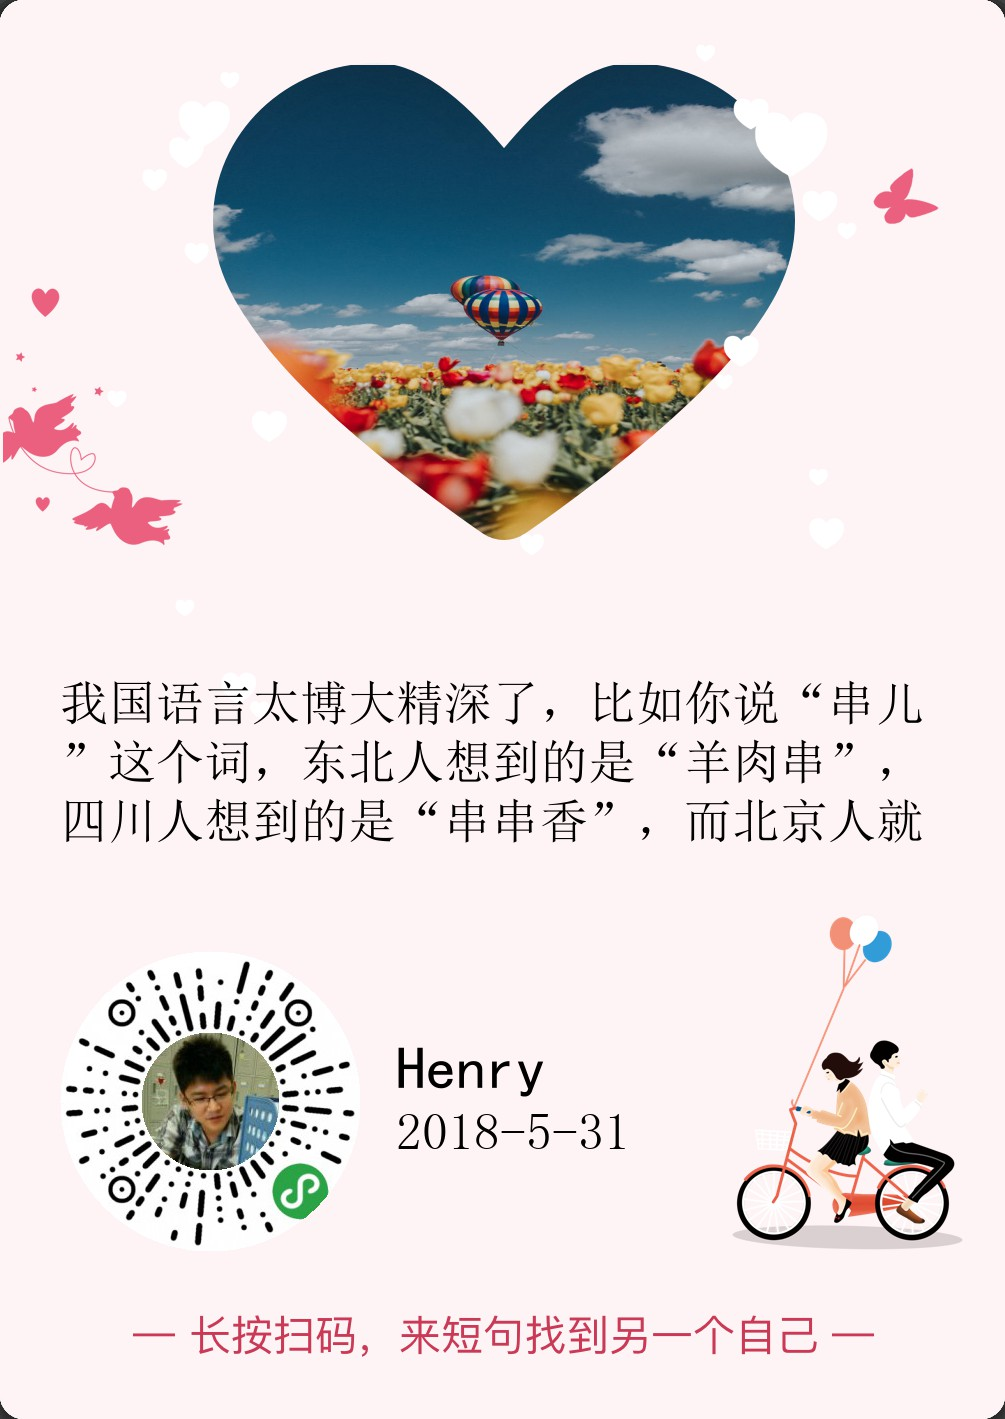
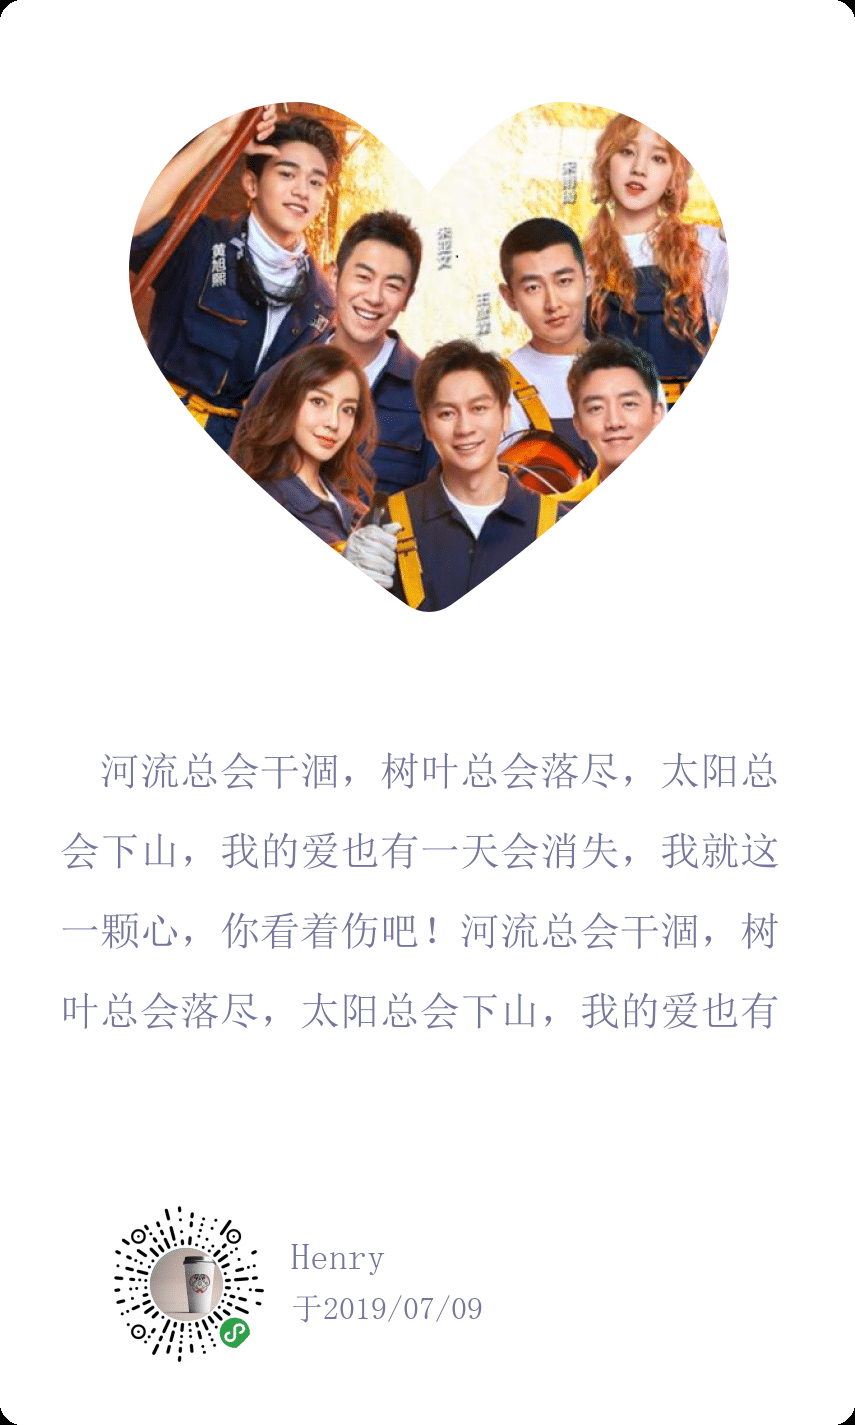
第三版海报改版

diff --git a/pages/poster1/poster1.js b/pages/poster1/poster1.js
@@ -1,0 +1,92 @@
+import loginApi from '../../utils/login.js'
+import util from '../../utils/util.js'
+const app = getApp();
+
+Page({
+
+    data: {
+        classArr:[
+            {
+                txt: "简约大气",
+                id: 1,
+            },
+            {
+                txt: "简约大气",
+                id: 1,
+            },
+            {
+                txt: "简约大气",
+                id: 1,
+            },
+            {
+                txt: "简约大气",
+                id: 1,
+            },
+            {
+                txt: "朴素",
+                id: 1,
+            },
+            {
+                txt: "清凉",
+                id: 1,
+            },
+        ],
+        classUrls:[
+            "https://duanju.58100.com/upload/yasuotu/01.png",
+            "https://duanju.58100.com/upload/yasuotu/02.png",
+            "https://duanju.58100.com/upload/yasuotu/03.png",
+            "https://duanju.58100.com/upload/yasuotu/04.png",
+            "https://duanju.58100.com/upload/yasuotu/05.png",
+            "https://duanju.58100.com/upload/yasuotu/06.png",
+            "https://duanju.58100.com/upload/yasuotu/07.png",
+            "https://duanju.58100.com/upload/yasuotu/08.png",
+            "https://duanju.58100.com/upload/yasuotu/09.png",
+            "https://duanju.58100.com/upload/yasuotu/10.png",
+            "https://duanju.58100.com/upload/yasuotu/11.png",
+            "https://duanju.58100.com/upload/yasuotu/12.png",
+            "https://duanju.58100.com/upload/yasuotu/13.png",
+            "https://duanju.58100.com/upload/yasuotu/14.png",
+            "https://duanju.58100.com/upload/yasuotu/15.png",
+            "https://duanju.58100.com/upload/yasuotu/16.png",
+        ]
+    },
+
+    onLoad: function (options) {
+        let imgW = ((app.windowHeight + app.Bheight) * 750 / app.sysWidth - 354) * (51 / 85);
+        this.setData({
+            imgW: imgW > 750 ? imgW * ((750 / imgW) - 0.02) : imgW,
+            qrcode: `${loginApi.domin}/home/index/qcodes?page=pages/index/index&uid=${wx.getStorageSync('u_id')}&contentid=${options.contentID ? options.contentID : null}`,
+            contentID: options.contentID ? options.contentID : null,
+            userIcon: app.globalData.userInfo.avatarUrl,
+            username: "",
+            userDate: '于' + util.formatTime(new Date()),
+        });
+    },
+
+    onShow: function () {
+
+    },
+
+    onShareAppMessage: function () {
+
+    },
+
+    previewImage:function(){
+
+    },
+
+    changePoster:function(){
+        console.log(123456789)
+        // let _this = this;
+        // let changePosterUrl = loginApi.domin + '/home/index/support';
+        // loginApi.requestUrl(_this, changePosterUrl, "POST", {
+        //     "id": cid,
+        //     "uid": wx.getStorageSync("u_id"),
+        // }, function (res) {
+        //     console.log(res);
+        //     if (res.status == 1) {
+                
+        //     }
+        // })
+    },
+})

diff --git a/pages/posters/posters.js b/pages/posters/posters.js
@@ -85,7 +85,7 @@ Page({
 
     onLoad: function(options) {
         console.log(app.globalData)
-        this.setBackColor(this.data.cardArr[0].color);
+        // this.setBackColor(this.data.cardArr[0].color);
         let imgW = ((app.windowHeight + app.Bheight) * 750 / app.sysWidth - 258) * (670 / 946);
         this.setData({
             imgW: imgW > 750 ? imgW * ((750 / imgW) - 0.02) : imgW,
@@ -158,7 +158,7 @@ Page({
             selectCardId: id,
             // ifGif: 1,
         });
-        this.setBackColor(this.data.cardArr[id].color)
+        // this.setBackColor(this.data.cardArr[id].color)
     },
 
     // 获取内容

diff --git a/components/conentView.js b/components/conentView.js
@@ -58,7 +58,6 @@ Component({
 
         // 跳转详情页
         goToDetails: function(e) {
-            console.log("goToDetails")
             let index = parseInt(e.currentTarget.dataset.index);
             wx.navigateTo({
                 url: `/pages/details/details?conId=${this.data.contentArr[index].id}&index=${index+1}`,

diff --git a/app.js b/app.js
@@ -26,7 +26,7 @@ App({
         const updateManager = wx.getUpdateManager();
 
         updateManager.onCheckForUpdate(function (res) {
-            
+            console.log(res.hasUpdate)
         })
 
         updateManager.onUpdateReady(function () {
